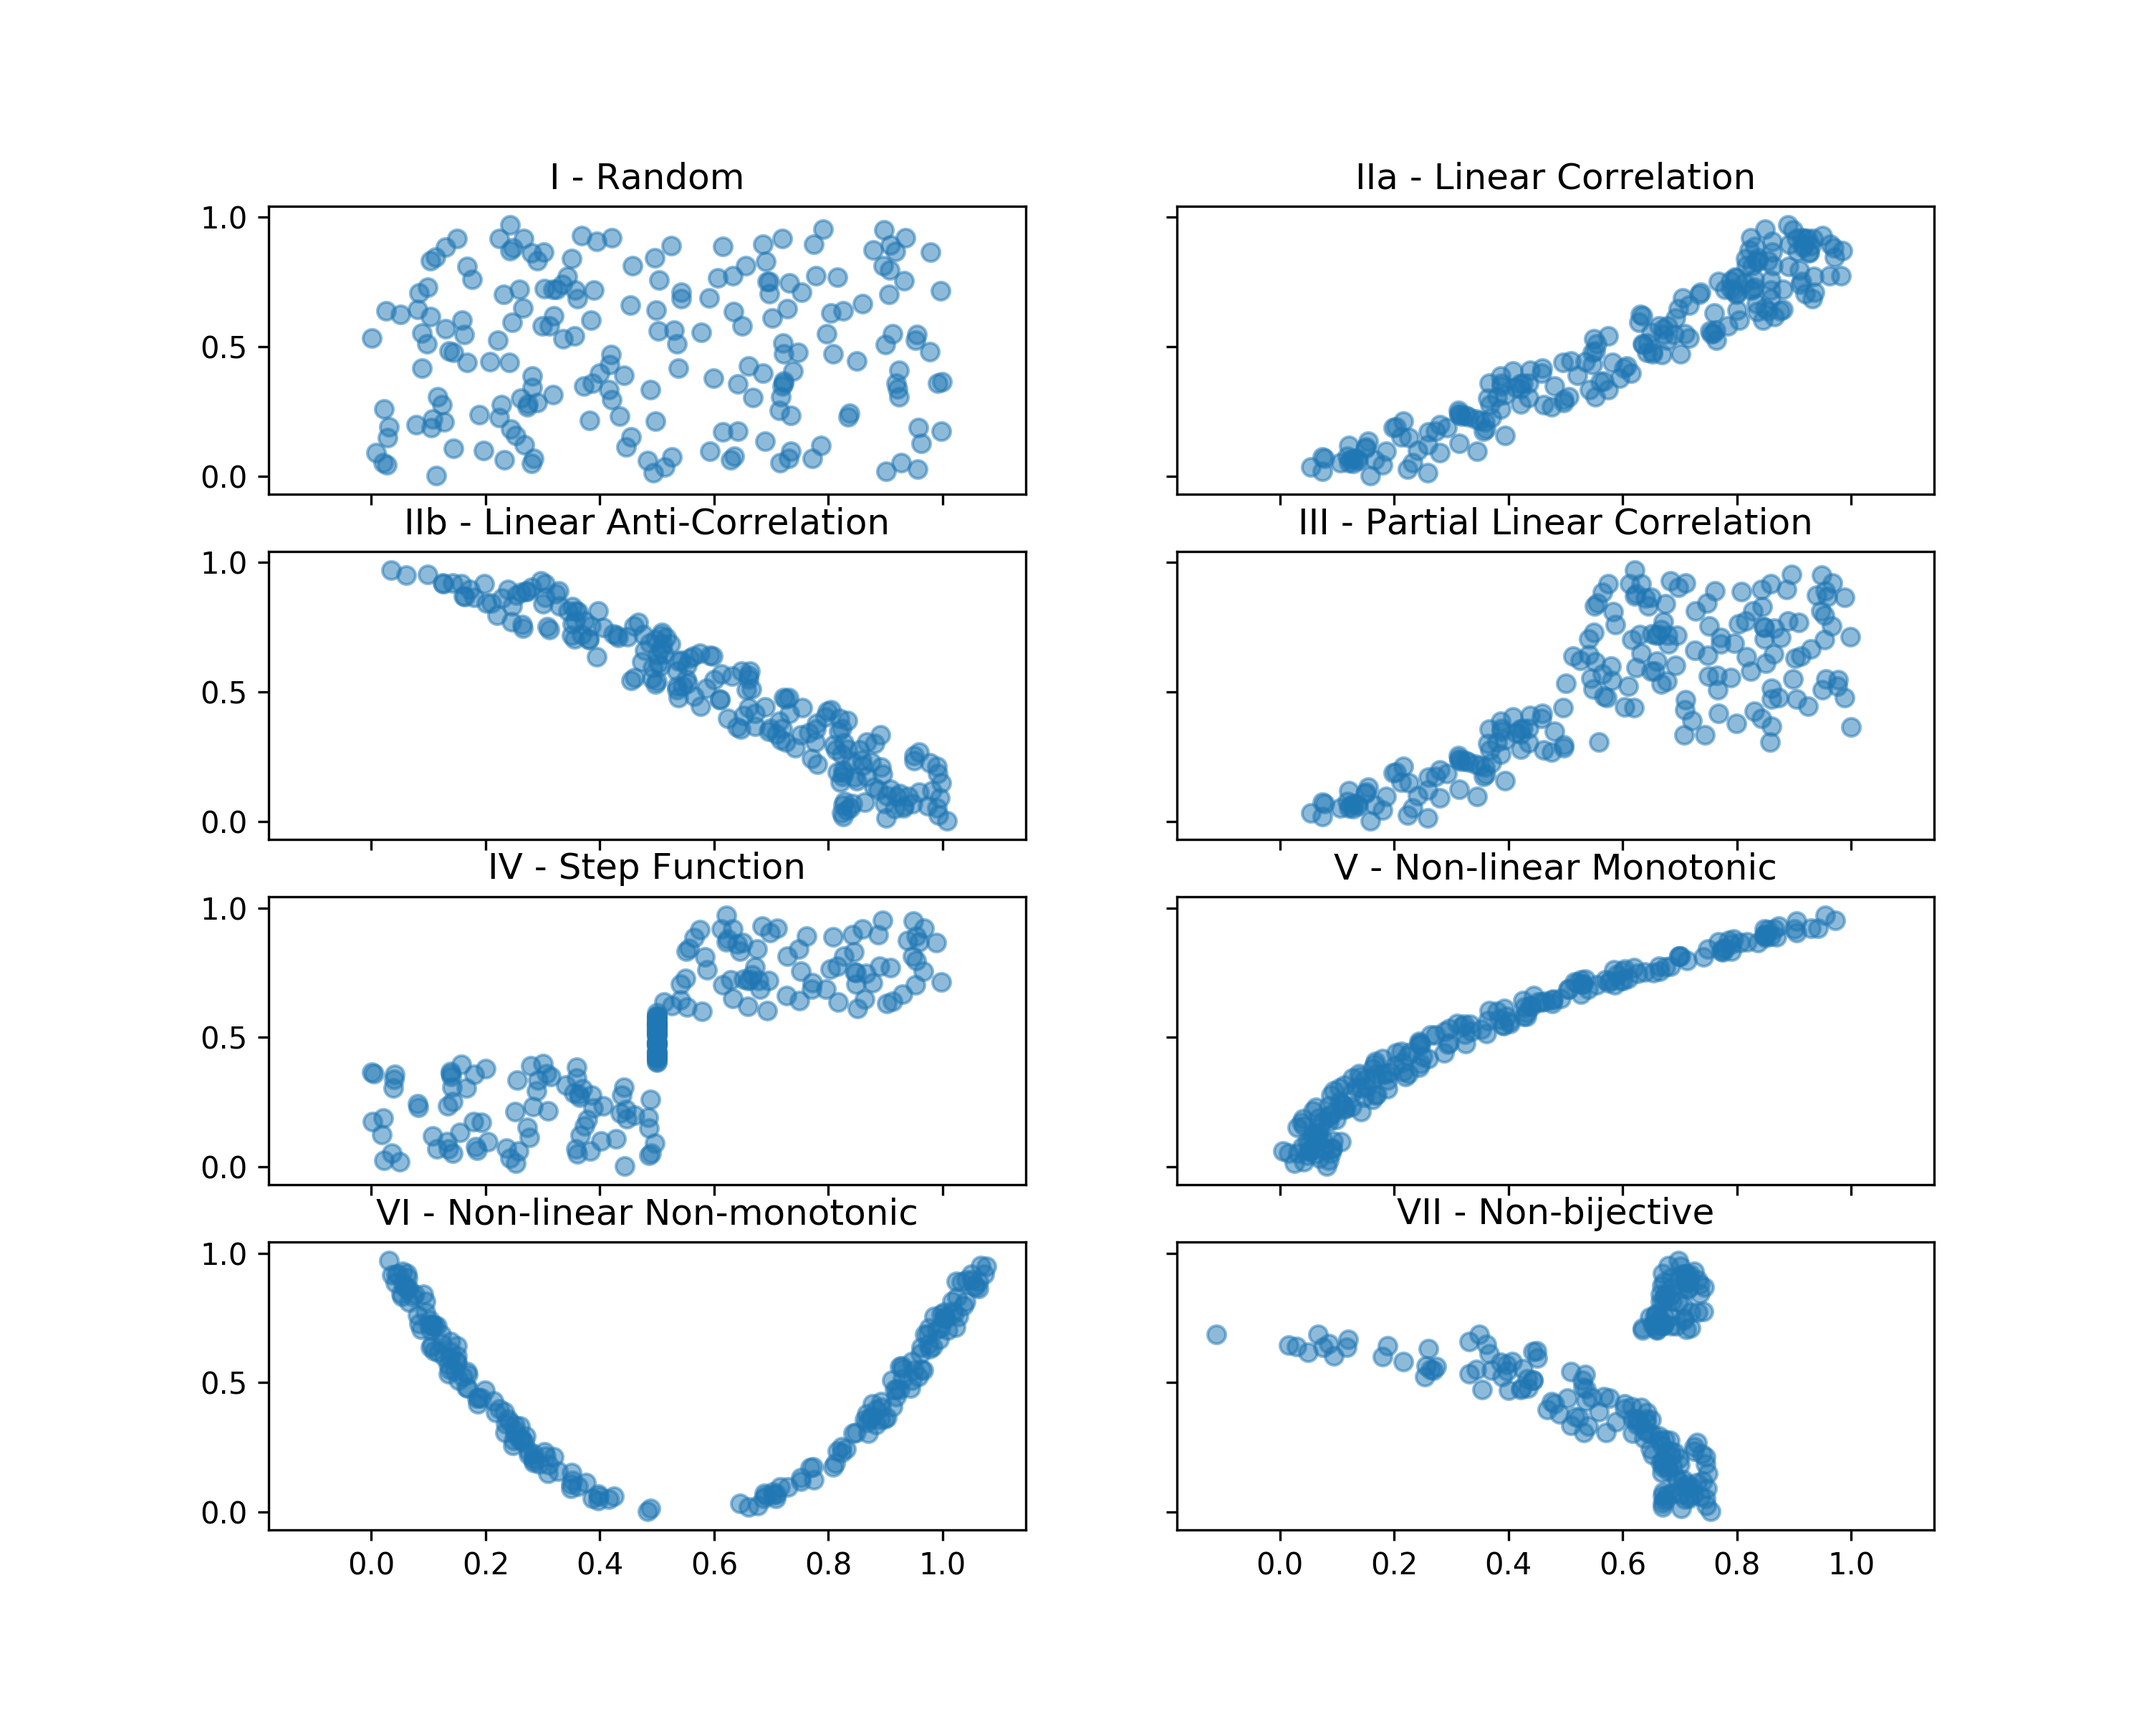
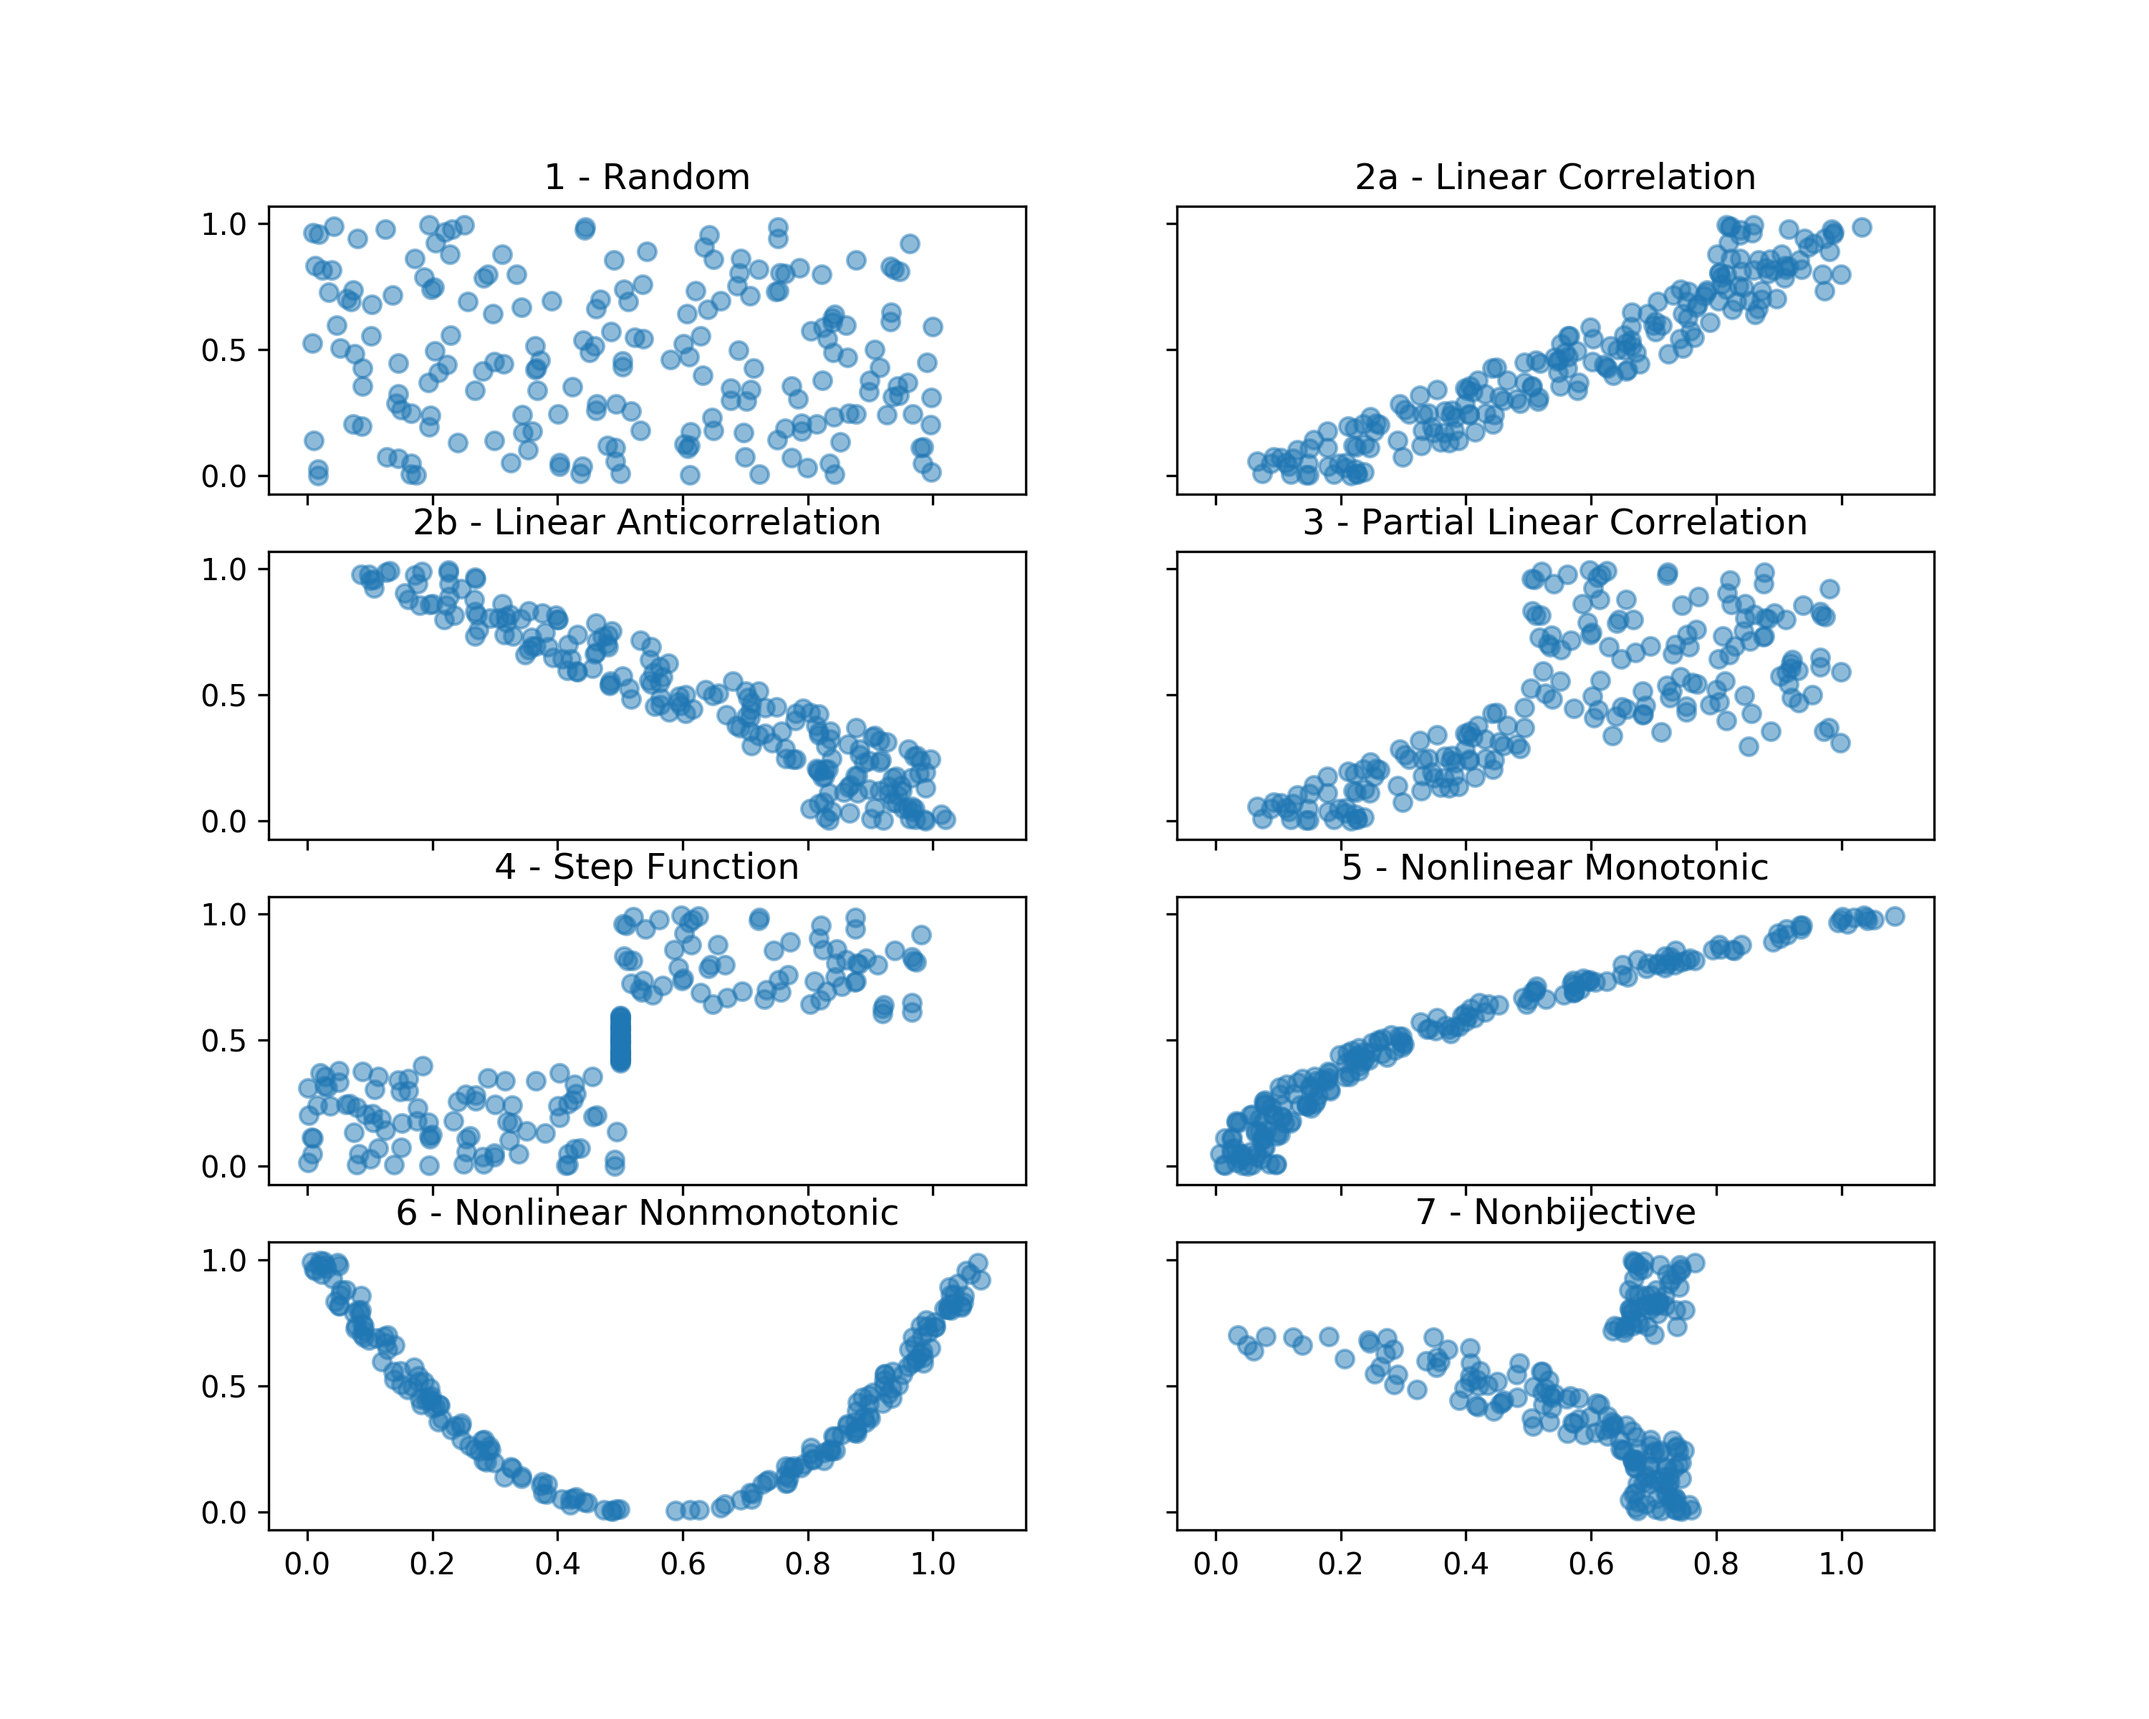
Changes for final version

diff --git a/Chapter11/generate_data.py b/Chapter11/generate_data.py
@@ -32,28 +32,28 @@ df['VII'] = np.where( df['y'] < 0.3, 0.5 + pow(df['IIb'], 2)/4 , np.where( df['y
 fig, axes = plt.subplots(4,2, figsize=(10,8), sharex=True, sharey=True, dpi=120)
 
 axes[0,0].scatter(df['I'], df['y'], alpha=0.5)
-axes[0,0].set_title('I - Random')
+axes[0,0].set_title('1 - Random')
 
 axes[0,1].scatter(df['IIa'], df['y'], alpha=0.5)
-axes[0,1].set_title('IIa - Linear Correlation')
+axes[0,1].set_title('2a - Linear Correlation')
 
 axes[1,0].scatter(df['IIb'], df['y'], alpha=0.5)
-axes[1,0].set_title('IIb - Linear Anti-Correlation')
+axes[1,0].set_title('2b - Linear Anticorrelation')
 
 axes[1,1].scatter(df['III'], df['y'], alpha=0.5)
-axes[1,1].set_title('III - Partial Linear Correlation')
+axes[1,1].set_title('3 - Partial Linear Correlation')
 
 axes[2,0].scatter(df['IV'], df['y'], alpha=0.5)
-axes[2,0].set_title('IV - Step Function')
+axes[2,0].set_title('4 - Step Function')
 
 axes[2,1].scatter(df['V'], df['y'], alpha=0.5)
-axes[2,1].set_title('V - Non-linear Monotonic')
+axes[2,1].set_title('5 - Nonlinear Monotonic')
 
 axes[3,0].scatter(df['VI'], df['y'], alpha=0.5)
-axes[3,0].set_title('VI - Non-linear Non-monotonic')
+axes[3,0].set_title('6 - Nonlinear Nonmonotonic')
 
 axes[3,1].scatter(df['VII'], df['y'], alpha=0.5)
-axes[3,1].set_title('VII - Non-bijective')
+axes[3,1].set_title('7 - Nonbijective')
  
 #plt.savefig('univariate_relationships.svg', format='svg', dpi=300)
 plt.savefig('univariate_relationships.png',  dpi=300)
